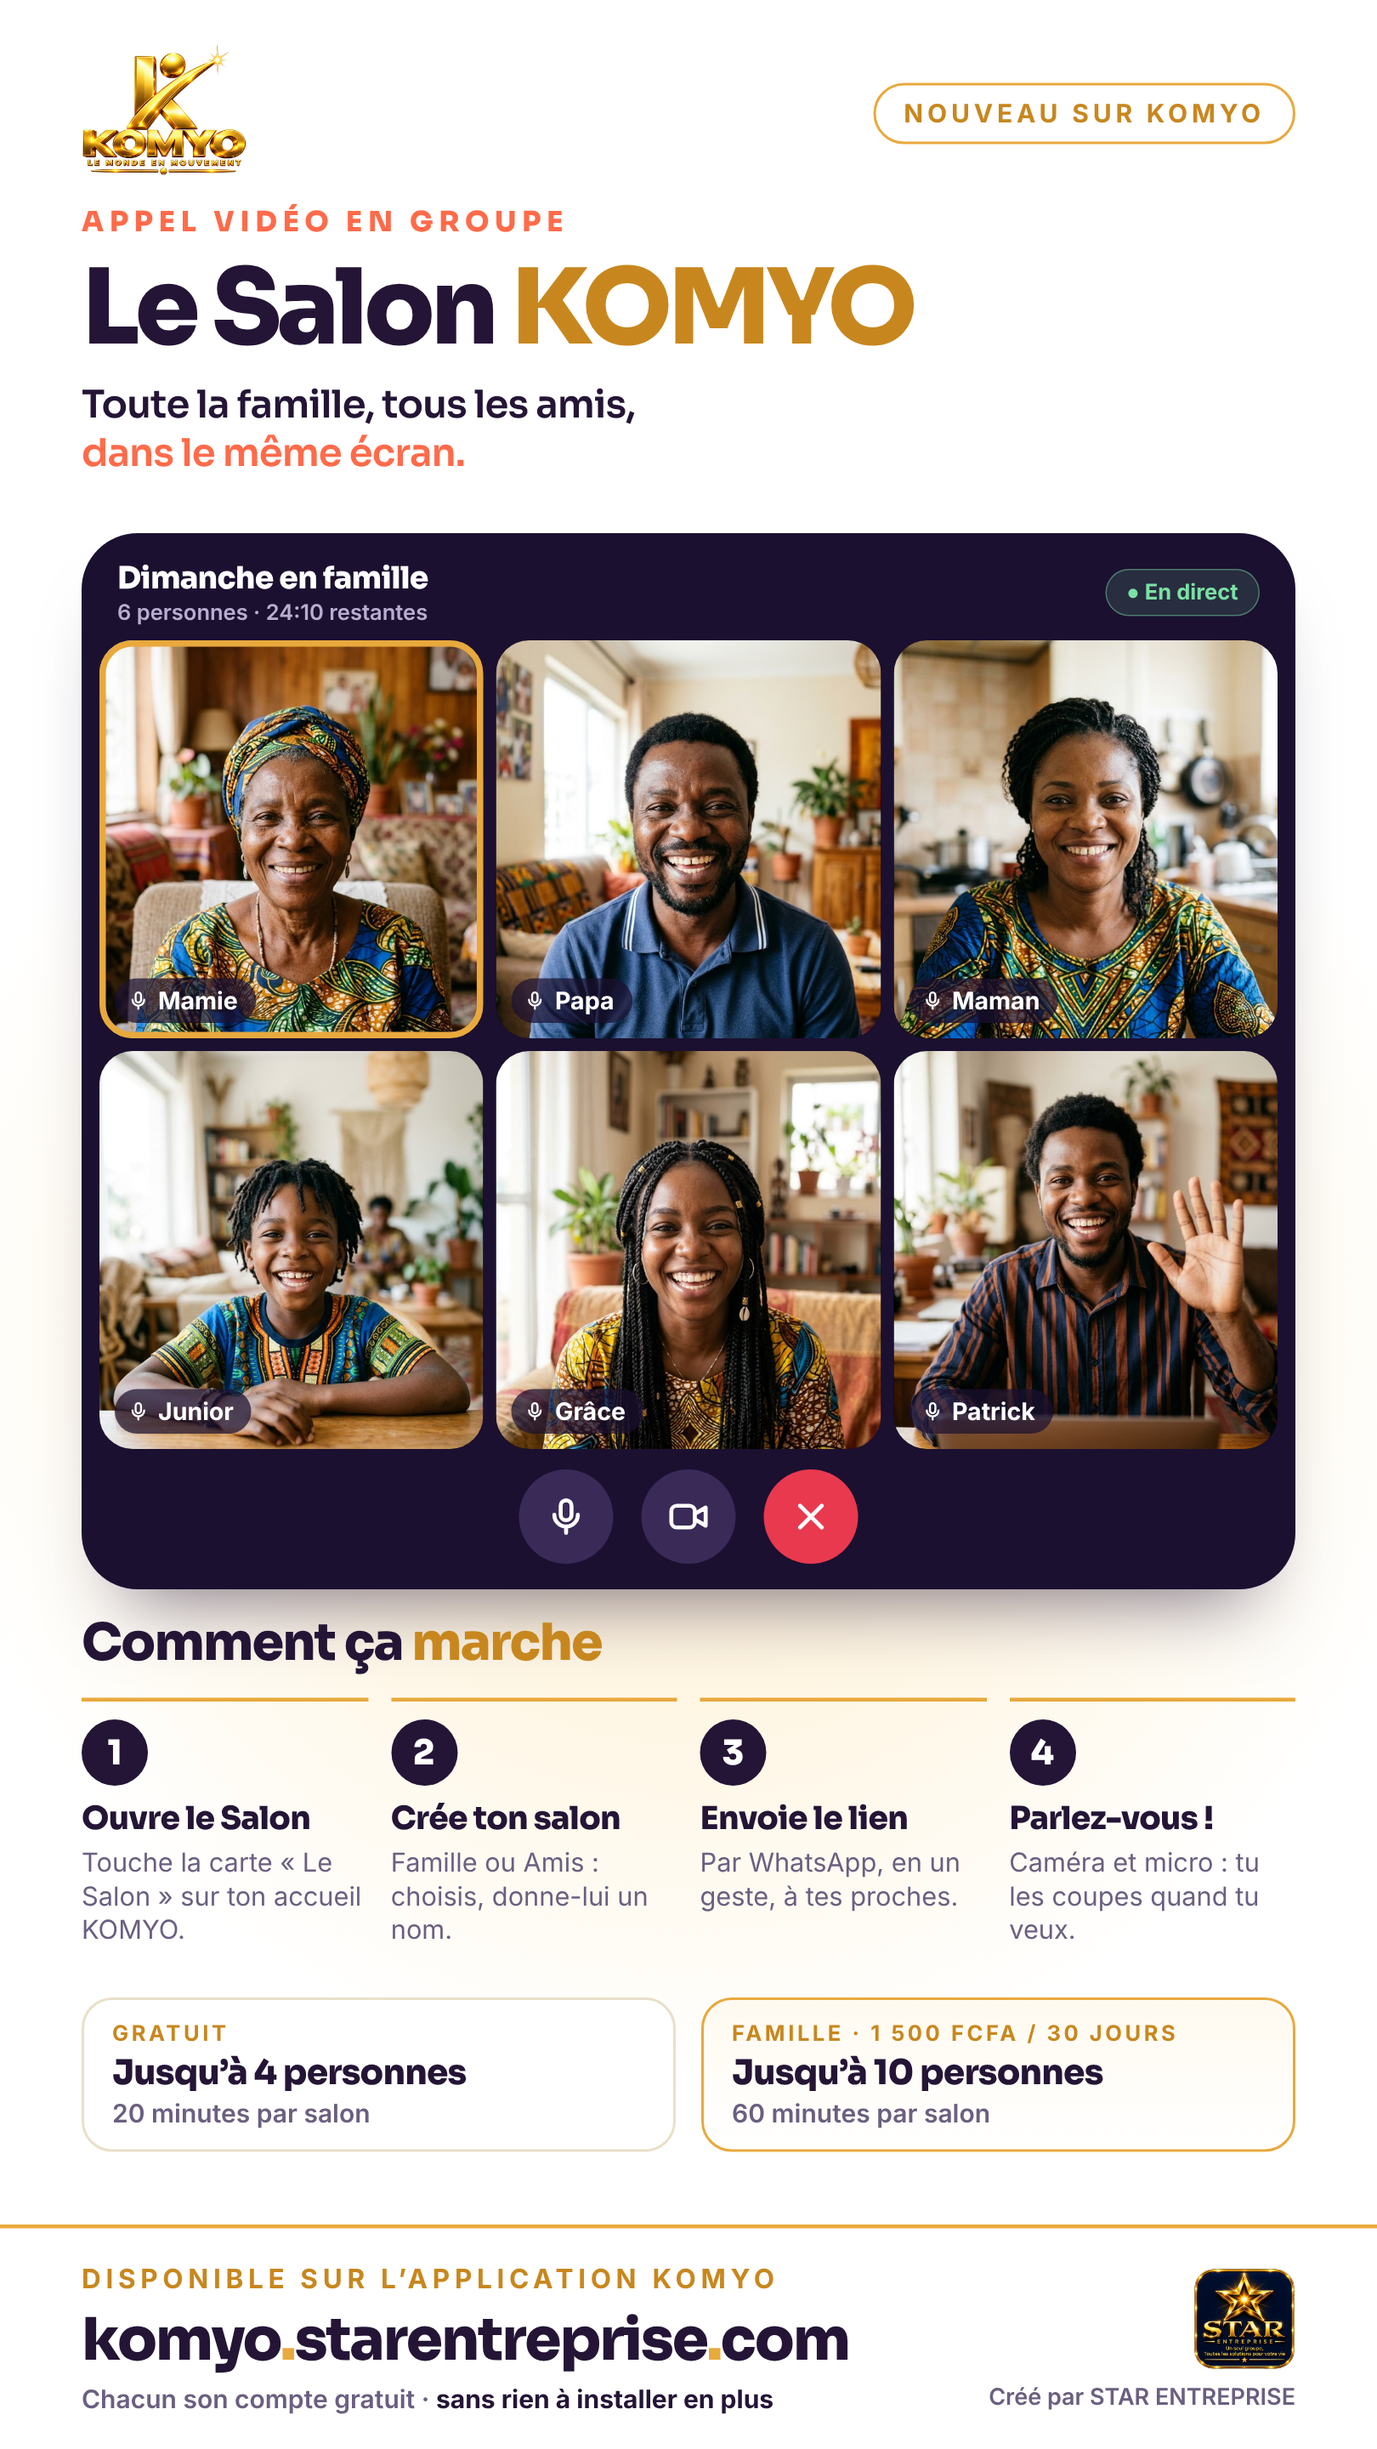
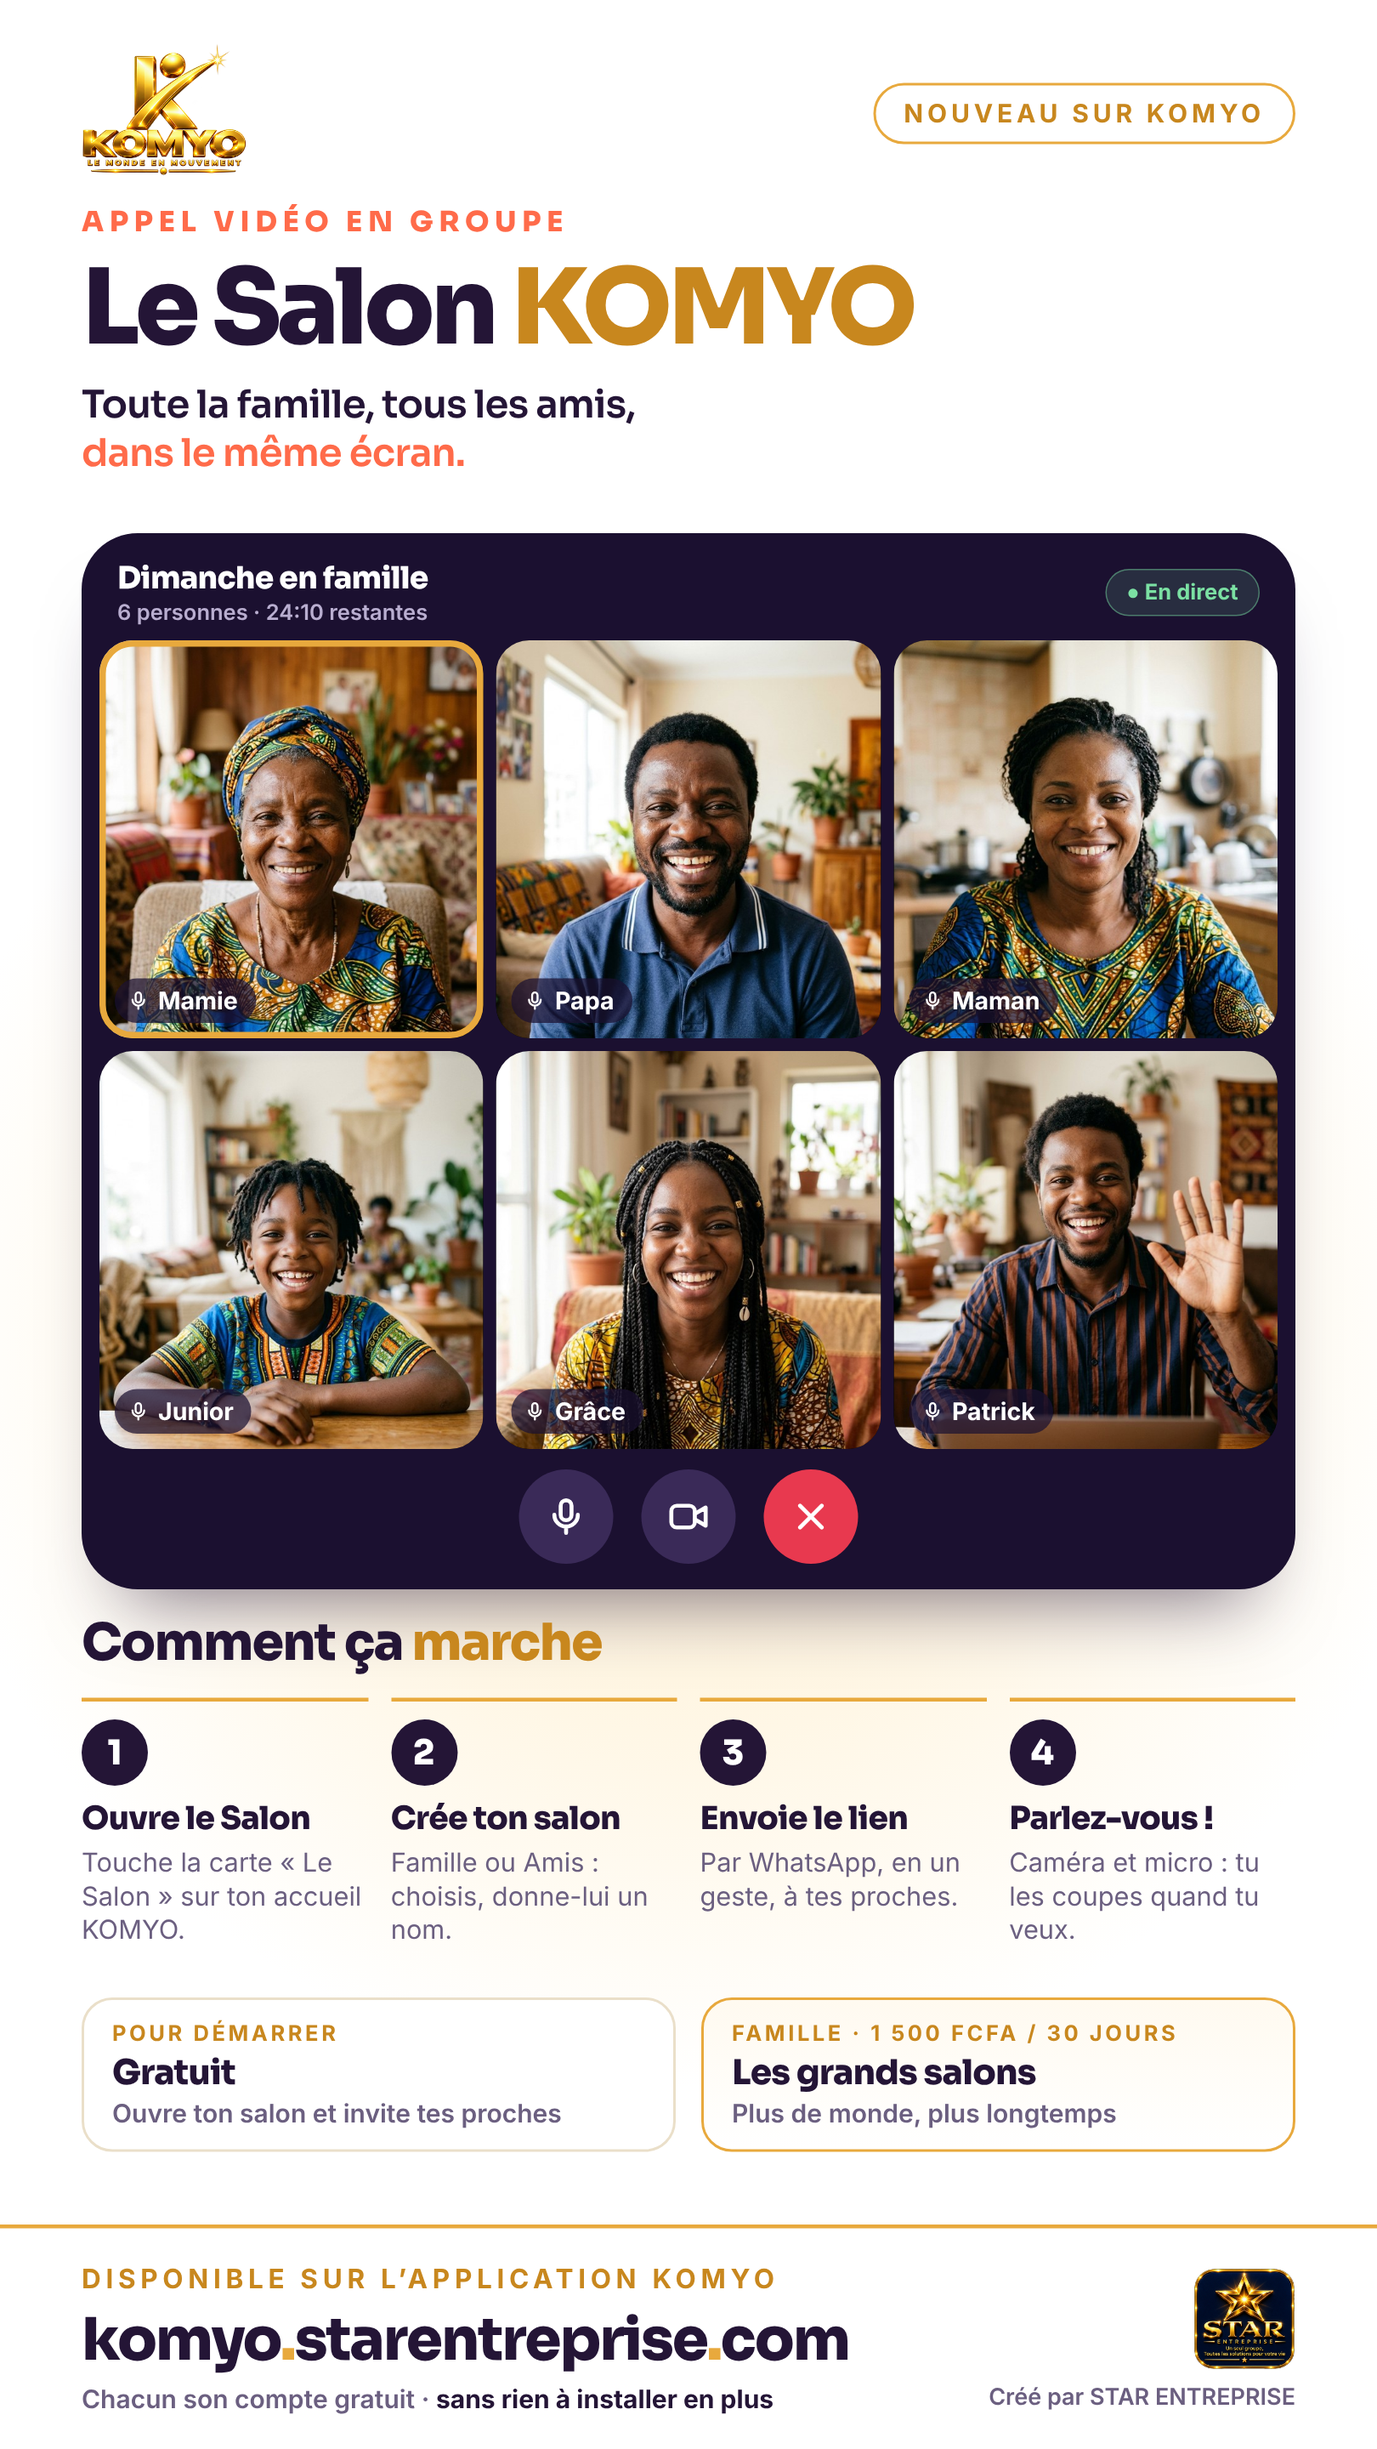
Salon : à partir du 5e participant, l'abonnement Famille de l'hôte est requis (seuil non annoncé : message au 5e, avis à l'hôte dans l'appel) ; nombre de personnes retiré des affiches, du guide et de Keydou ; en-tête de l'appel sans collision
Claude-Session: https://claude.ai/code/session_01E6FpdmevGXTi1RN5dnNTRb

Changed region(s): [[0.0926, 0.8125, 0.3395, 0.875], [0.5247, 0.8438, 0.8025, 0.875], [0.3704, 0.8438, 0.4012, 0.875]]

diff --git a/starvibe/salon.html b/starvibe/salon.html
@@ -66,7 +66,7 @@
   .cbtn small{position:absolute;bottom:-17px;font:600 10.5px 'Inter',Arial,sans-serif;color:var(--dim);white-space:nowrap;}
   .lien-fin{background:none;border:0;color:var(--dim);font:600 12px 'Inter',Arial,sans-serif;text-decoration:underline;cursor:pointer;padding:6px;}
   .point{display:inline-block;width:8px;height:8px;border-radius:50%;background:#46d27d;margin-right:6px;vertical-align:1px;} .point.orange{background:#f3b64a;animation:clig 1s infinite;} @keyframes clig{50%{opacity:.3;}}
-  .haut .gauche{display:flex;align-items:center;gap:10px;min-width:0;} .haut .gauche>div{min-width:0;} .haut b{overflow:hidden;text-overflow:ellipsis;white-space:nowrap;max-width:46vw;}
+  .haut .gauche{display:flex;align-items:center;gap:10px;min-width:0;} .haut .gauche>div{min-width:0;} .haut b{overflow:hidden;text-overflow:ellipsis;white-space:nowrap;max-width:42vw;}
   .rond-btn{appearance:none;border:0;width:40px;height:40px;border-radius:50%;background:rgba(255,255,255,.12);color:#fff;font-size:20px;line-height:1;cursor:pointer;flex:none;display:grid;place-items:center;}
   .inviter{appearance:none;border:1.5px solid rgba(232,169,61,.7);background:rgba(232,169,61,.14);color:var(--gold2);border-radius:999px;padding:8px 14px;font:800 12.5px 'Sora',Arial,sans-serif;cursor:pointer;white-space:nowrap;}
   .banniere{margin:0 12px 4px;border-radius:12px;padding:9px 12px;font-size:13px;background:rgba(243,182,74,.16);border:1px solid rgba(243,182,74,.6);display:flex;align-items:center;justify-content:space-between;gap:10px;}
@@ -149,7 +149,7 @@
 
 <div id="appel" hidden>
   <div class="haut">
-    <div class="gauche"><button class="rond-btn" id="bRetour" type="button" aria-label="Retour : quitter le salon">←</button><div><b id="aNom">Salon</b><span class="compte"><span class="point" id="aPoint"></span><span id="aStatut">En direct</span> · <span id="aChrono">--:--</span> restant · <span id="aNb">1</span> pers.</span></div></div>
+    <div class="gauche"><button class="rond-btn" id="bRetour" type="button" aria-label="Retour : quitter le salon">←</button><div><b id="aNom">Salon</b><span class="compte"><span class="point" id="aPoint"></span><span id="aStatut">En direct</span> · <span id="aChrono">--:--</span> · <span id="aNb">1</span> pers.</span></div></div>
     <button class="inviter" id="bInv" type="button">+ Inviter</button>
   </div>
   <div class="banniere" id="banniere" role="status" hidden><span id="banTxt"></span><button id="banBtn" type="button" hidden>Activer le son</button></div>
@@ -185,7 +185,7 @@
     return fetch('/api/starvibe-salon'+path,opts).then(function(r){ return r.json().catch(function(){return {};}).then(function(d){ return {ok:r.ok,status:r.status,d:d}; }); });
   }
   function toast(t){ var e=document.createElement('div'); e.className='toast'; e.setAttribute('role','status'); e.textContent=t; document.body.appendChild(e); setTimeout(function(){ e.remove(); },3800); }
-  function limitesTxt(l){ return ['Jusqu’à '+l.personnes+' personnes', l.minutes+' minutes par salon'].concat(l.salonsParSemaine?[l.salonsParSemaine+' salons par semaine']:[]); }
+  function limitesTxt(l){ return (l.personnes?['Jusqu’à '+l.personnes+' personnes']:[]).concat([l.minutes+' minutes par salon']).concat(l.salonsParSemaine?[l.salonsParSemaine+' salons par semaine']:[]); }
   function puces(el,arr){ el.innerHTML=''; arr.forEach(function(t){ var s=document.createElement('span'); s.textContent=t; el.appendChild(s); }); }
   function heure(ms){ return new Date(ms).toLocaleTimeString('fr-FR',{hour:'2-digit',minute:'2-digit'}); }
   function copier(t){
@@ -249,7 +249,7 @@
     estHote=!!s.estHote; finAt=new Date(s.finAt).getTime();
     if(s.clos){ $('finTitre').textContent='Salon terminé'; $('finTxt').textContent='Ce salon est fini. Demande à '+s.hote+' d’en ouvrir un nouveau.'; $('btnRevenirFin').hidden=true; return montrer('fin'); }
     $('rejNom').textContent=s.nom; $('rejInfo').textContent=(s.type==='amis'?'Salon entre amis':'Salon en famille')+' ouvert par '+s.hote+'. Ton micro sera allumé, ta caméra éteinte : tu l’allumes quand tu veux.';
-    puces($('rejLimites'),['Jusqu’à '+s.max+' personnes','Fin vers '+heure(finAt)]); montrer('rejoindre');
+    puces($('rejLimites'),['Fin vers '+heure(finAt)]); montrer('rejoindre');
   }
   $('btnRejoindre').onclick=function(){ entrer(); };
   $('btnRevenirFin').onclick=function(){ entrer(); };
@@ -261,7 +261,9 @@
     function libere(){ if(bouton&&bouton.tagName==='BUTTON') bouton.disabled=false; }
     api('',{method:'POST',body:{action:'entrer',code:code}}).then(function(r){
       libere();
-      if(!r.ok){ var msg=r.d.error||'Impossible d’entrer.'; if(!$('rejoindre').hidden){ $('errRej').textContent=msg; $('errRej').hidden=false; } else toast(msg); return; }
+      if(!r.ok){ var msg=r.d.error||'Impossible d’entrer.';
+        if(r.d.code==='famille_requis'){ return feuille('Ce salon est complet pour le moment',msg,[{t:'Compris'}]); }
+        if(!$('rejoindre').hidden){ $('errRej').textContent=msg; $('errRej').hidden=false; } else toast(msg); return; }
       var d=r.d; estHote=!!d.hote; finAt=new Date(d.finAt).getTime(); $('aNom').textContent=d.nomSalon||'Salon'; $('bTous').hidden=!estHote;
       ecranAvant=(['creer','lobby','rejoindre','fin'].filter(function(x){ return !$(x).hidden; })[0])||'rejoindre';
       sess={url:d.url,jeton:d.jeton,lien:d.lien||'',nomSalon:d.nomSalon||'Salon'}; quitte=false; causeSortie=''; avertiFin=false; tentative=0; reconnecte=false;
@@ -281,6 +283,7 @@
      .on(E.TrackUnsubscribed,function(t){ t.detach().forEach(function(el){ el.remove(); }); dessiner(); })
      .on(E.Reconnecting,function(){ statut('Reconnexion…',true); }).on(E.Reconnected,function(){ statut('En direct',false); dessiner(); })
      .on(E.AudioPlaybackStatusChanged,verifierSon)
+     .on(E.DataReceived,messageRecu)
      .on(E.Disconnected,function(raison){ if(room!==r) return; finConnexion(raison); });
     return r;
   }
@@ -333,6 +336,16 @@
     if(sess&&!quitte&&!reconnecte&&room&&room.state==='disconnected'){ finConnexion(null); }
   });
   window.addEventListener('online',function(){ if(sess&&!quitte&&!reconnecte&&room&&room.state==='disconnected') finConnexion(null); });
+
+  /* ---------- message privé du serveur (place refusée à un invité) ---------- */
+  var dernierAvis=0;
+  function messageRecu(payload){
+    try{
+      var m=JSON.parse(new TextDecoder().decode(payload));
+      if(m&&m.type==='famille_requis'&&estHote&&Date.now()-dernierAvis>120000){ dernierAvis=Date.now();
+        feuille('Un invité veut entrer',m.message||'Pour réunir 5 personnes ou plus, passe à l’abonnement Famille.',[{t:'Voir l’abonnement Famille',f:function(){ window.open('abonnement.html','_blank'); }},{t:'Plus tard',cls:'ligne'}]); }
+    }catch(e){}
+  }
 
   /* ---------- participants ---------- */
   function participants(){ var l=[]; if(room){ l.push(room.localParticipant); room.remoteParticipants.forEach(function(p){ l.push(p); }); } return l; }

diff --git a/starvibe/keydou-admin.html b/starvibe/keydou-admin.html
@@ -236,7 +236,7 @@
   <div id="paneSalon" hidden>
     <div class="formcard" style="margin-bottom:12px">
       <b>Le Salon (appel vidéo en groupe)</b>
-      <p class="muted" style="margin:6px 0 8px;line-height:1.55" id="salonLim">Gratuit : 4 personnes, 20 minutes, 2 salons par semaine. Famille : 10 personnes, 60 minutes, plafond mensuel de minutes. Les testeurs invités ont les capacités Famille et aucun plafond de salons. Un membre qui reçoit le lien d’un salon peut y entrer sans être testeur : l’invitation ne sert qu’à créer des salons.</p>
+      <p class="muted" style="margin:6px 0 8px;line-height:1.55" id="salonLim">Règle : tout membre ouvre et rejoint un salon (gratuit : 20 minutes, 2 salons par semaine) ; à partir du 5e participant, la personne qui a ouvert le salon doit avoir l’abonnement Famille (60 minutes, plafond de 1 500 minutes de présence par mois, 10 personnes au plus). Ce seuil n’est pas annoncé aux membres : le message apparaît au 5e participant. Les testeurs invités ont les capacités Famille et aucun plafond de salons. Un membre qui reçoit le lien d’un salon peut y entrer sans être testeur : l’invitation ne sert qu’à créer des salons.</p>
       <div class="bar"><label style="font-size:13px;display:flex;align-items:center;gap:8px"><input type="checkbox" id="salonOuvert"> Ouvert à tous les membres (laisser décoché pendant le test fermé)</label></div>
       <div class="bar" style="margin-top:6px"><input id="salonTel" type="text" placeholder="Téléphone du testeur (+242…)" style="flex:1;min-width:200px;padding:9px;border-radius:10px">
         <button class="btn ok" id="salonInviter" type="button">Inviter comme testeur</button></div>

diff --git a/docs/komyo/build_guide_utilisation.py b/docs/komyo/build_guide_utilisation.py
@@ -203,7 +203,7 @@ S_ += [Paragraph('Ce que tu peux faire', H2)] + bl([
     "<b>Aimer, commenter et partager</b> les vidéos des autres.",
     "<b>Inviter tes amis</b> avec Myo, et <b>gagner des médailles</b> grâce au parrainage.",
     "<b>Parler à Keydou</b>, l'assistant qui te trouve un hôtel, un restaurant, un dépannage, un kit solaire… au Congo, à Abidjan, en France et au Canada.",
-    "<b>Appeler ta famille et tes amis en vidéo</b> avec <b>le Salon</b> : un appel de groupe, jusqu'à 10 personnes, sans installer autre chose (ouverture progressive).",
+    "<b>Appeler ta famille et tes amis en vidéo</b> avec <b>le Salon</b> : un appel de groupe, sans installer autre chose (ouverture progressive).",
     "<b>Avoir ton assistant personnel</b> avec <b>Keydou Compagnon</b> : il retient tes rendez-vous et tes anniversaires, te rappelle au bon moment et répond à tes questions, à la voix comme à l'écrit.",
     "<b>Offrir à tes enfants</b> les 10 dessins animés de PIOUPIOU et les premiers hymnes nationaux, dans un espace protégé.",
     "<b>Faire connaître</b> ta musique, ta boutique ou ton événement avec une annonce."])
@@ -413,13 +413,14 @@ pendant = bl(["<b>Micro et caméra :</b> coupe-les et remets-les quand tu veux. 
               "<b>Flèche de retour (ou retour du téléphone) :</b> une fenêtre te propose de quitter ou de rester. Tu peux <b>quitter sans fermer</b> le salon et y <b>revenir</b> avec le bouton « Revenir dans le salon ».",
               "<b>Celui qui a ouvert le salon</b> peut couper le micro d'une personne, la retirer (menu « … » sur sa tuile) ou <b>terminer le salon pour tous</b>.",
               "Si ta connexion se coupe, le Salon <b>se reconnecte tout seul</b>. Une alerte te prévient quand il reste <b>2 minutes</b>."])
-S_ += [KeepTogether([Paragraph('Pendant l\'appel', H2)] + a_cote(pendant, Phone(os.path.join(A, 'salon_appel.png'), w=46 * mm, legende='Jusqu\'à 10 personnes dans le même écran')))]
-S_ += [Paragraph('Combien de personnes, combien de temps ?', H2)]
+S_ += [KeepTogether([Paragraph('Pendant l\'appel', H2)] + a_cote(pendant, Phone(os.path.join(A, 'salon_appel.png'), w=46 * mm, legende='Toute la famille dans le même écran')))]
+S_ += [Paragraph('Combien de temps, et pour qui ?', H2)]
 S_ += tbl([['', 'Gratuit', 'Abonnement Famille'],
-           ['Personnes dans un salon', '4', '10'],
+           ['Ouvrir et rejoindre un salon', 'Oui', 'Oui'],
            ['Durée d\'un salon', '20 minutes', '60 minutes'],
            ['Salons que tu peux ouvrir', "2 par semaine", "Autant que tu veux, dans la limite de 1 500 minutes de présence par mois (somme des minutes de chaque participant)"],
-           ['Prix', 'Gratuit', '1 500 FCFA pour 30 jours (chapitre 14)']], [46, 40, CW / mm - 86])
+           ['Réunir beaucoup de monde', "Avec l'abonnement Famille : un message t'explique au moment voulu", "Oui, jusqu'à la limite du salon"],
+           ['Prix', 'Gratuit', '1 500 FCFA pour 30 jours (chapitre 14)']], [46, 52, CW / mm - 98])
 S_ += box("<b>Pour entrer dans un salon, un simple compte KOMYO gratuit suffit.</b> Seul celui qui <b>ouvre</b> le salon est limité par son offre. Ne partage le lien qu'avec des personnes que tu connais : <b>jamais en public</b>.", 'ok')
 S_ += box("Le Salon utilise des données mobiles pendant l'appel. Garde la caméra éteinte si ta connexion est faible : tu peux toujours parler et écouter.", 'tip')
 
@@ -442,9 +443,9 @@ gauche = tbl([['Offre', 'Prix', 'Ce que tu obtiens'],
               ['Découverte', '0 FCFA', "Compte, fil, publier, aimer, commenter, partager, Myo, Parrainage, KOMYO Jeunes."],
               ['Annonce', "2 000 FCFA (1 sem.)<br/>4 000 FCFA (2 sem.)<br/>10 000 FCFA (1 mois)", "Ton message visible par tous les abonnés."],
               ['Business', '5 000 FCFA / mois', "Mise en avant de tes vidéos, statistiques, boutique."],
-              ['Famille', '1 500 FCFA / 30 jours', "10 dessins animés PIOUPIOU, hymnes nationaux, profils enfants illimités, Salon de 10 personnes."],
+              ['Famille', '1 500 FCFA / 30 jours', "10 dessins animés PIOUPIOU, hymnes nationaux, profils enfants illimités, grands salons."],
               ['Keydou', "1 000 FCFA / demande", "Jusqu'à 3 besoins cochés. Ailleurs : 1,52 € (France), 2,50 CAD (Canada)."],
-              ['Le Salon', "Gratuit ou Famille", "4 personnes, 20 min (gratuit) ; 10 personnes, 60 min (Famille). Chapitre 12."],
+              ['Le Salon', "Gratuit ou Famille", "Appels en groupe ; grands salons avec Famille. Chapitre 12."],
               ['Keydou Compagnon', "5 000 FCFA ou 19 $ / mois", "Assistant personnel : Essentiel ou Complet (chapitre 11). Jamais gratuit."]], [32, 52, CW / mm - 84])
 S_ += gauche
 S_ += [Paragraph('Comment payer (Mobile Money)', H2)]
